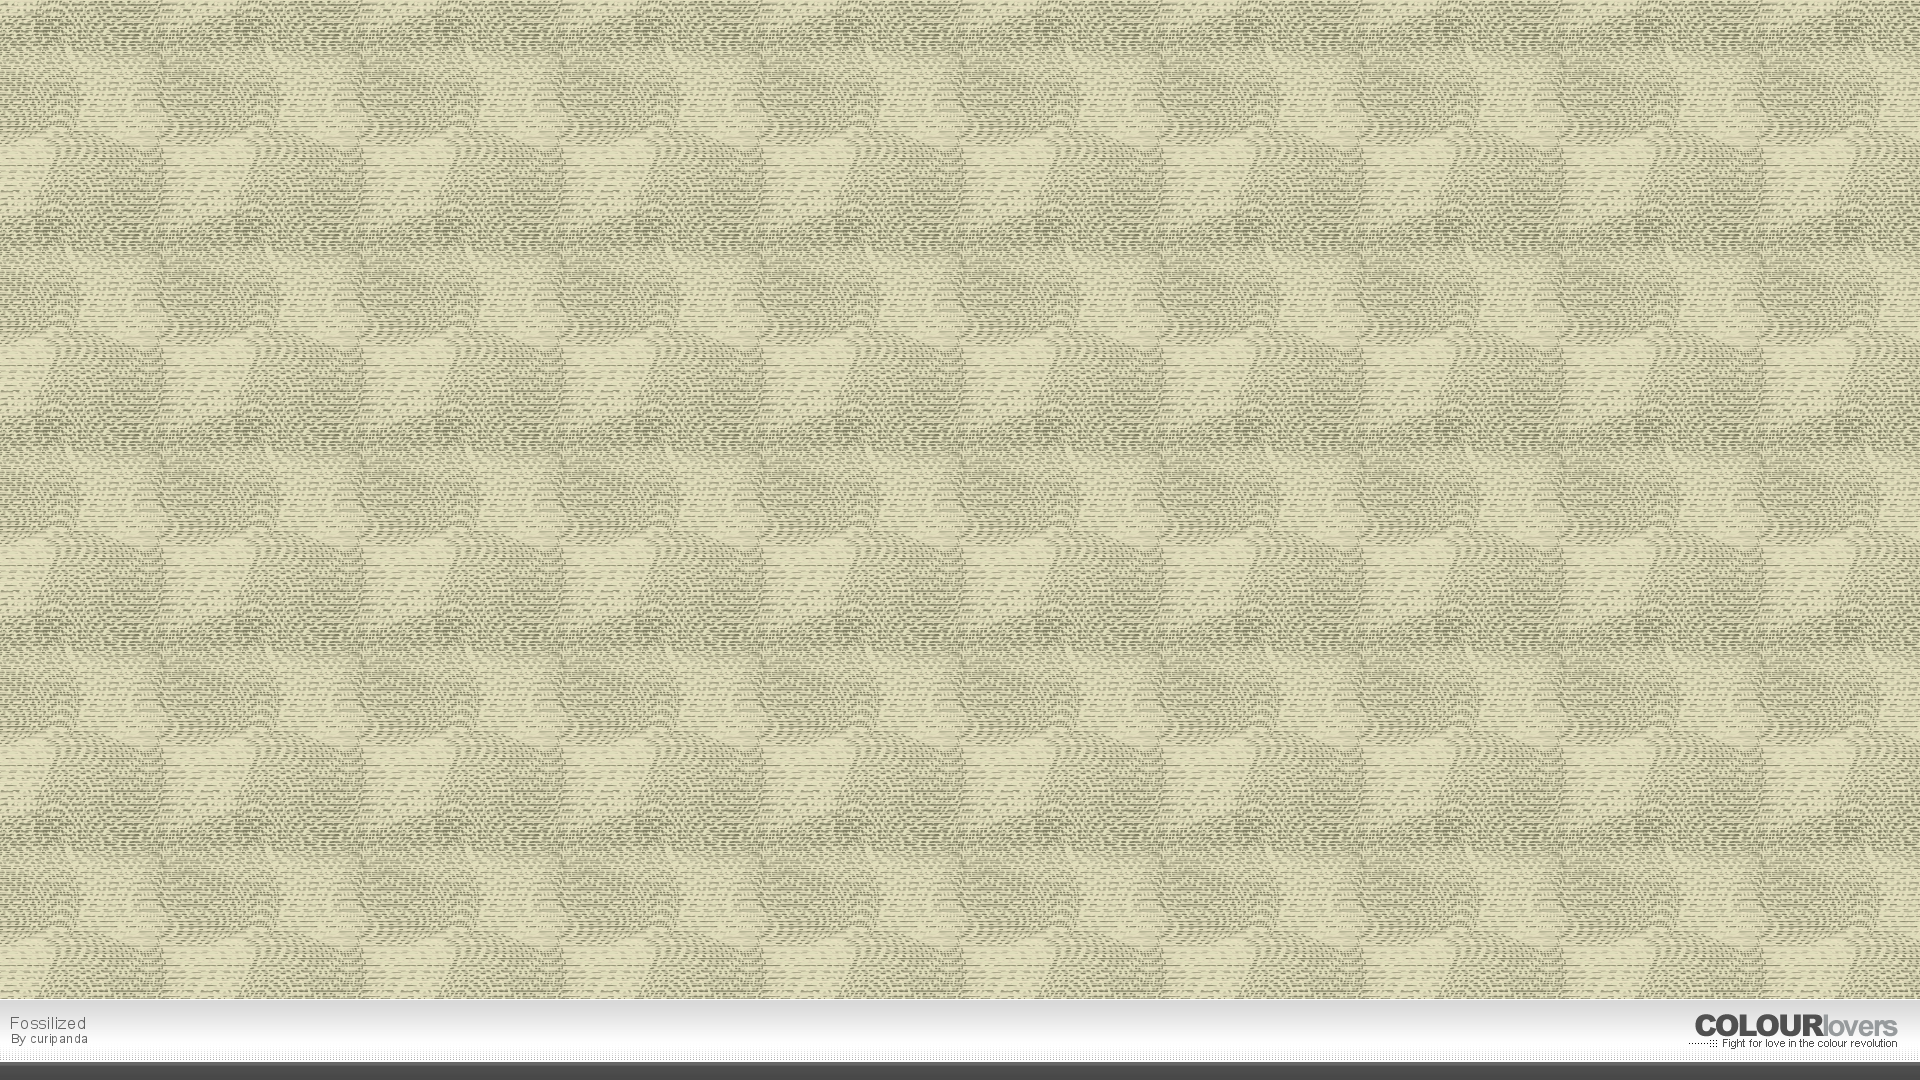
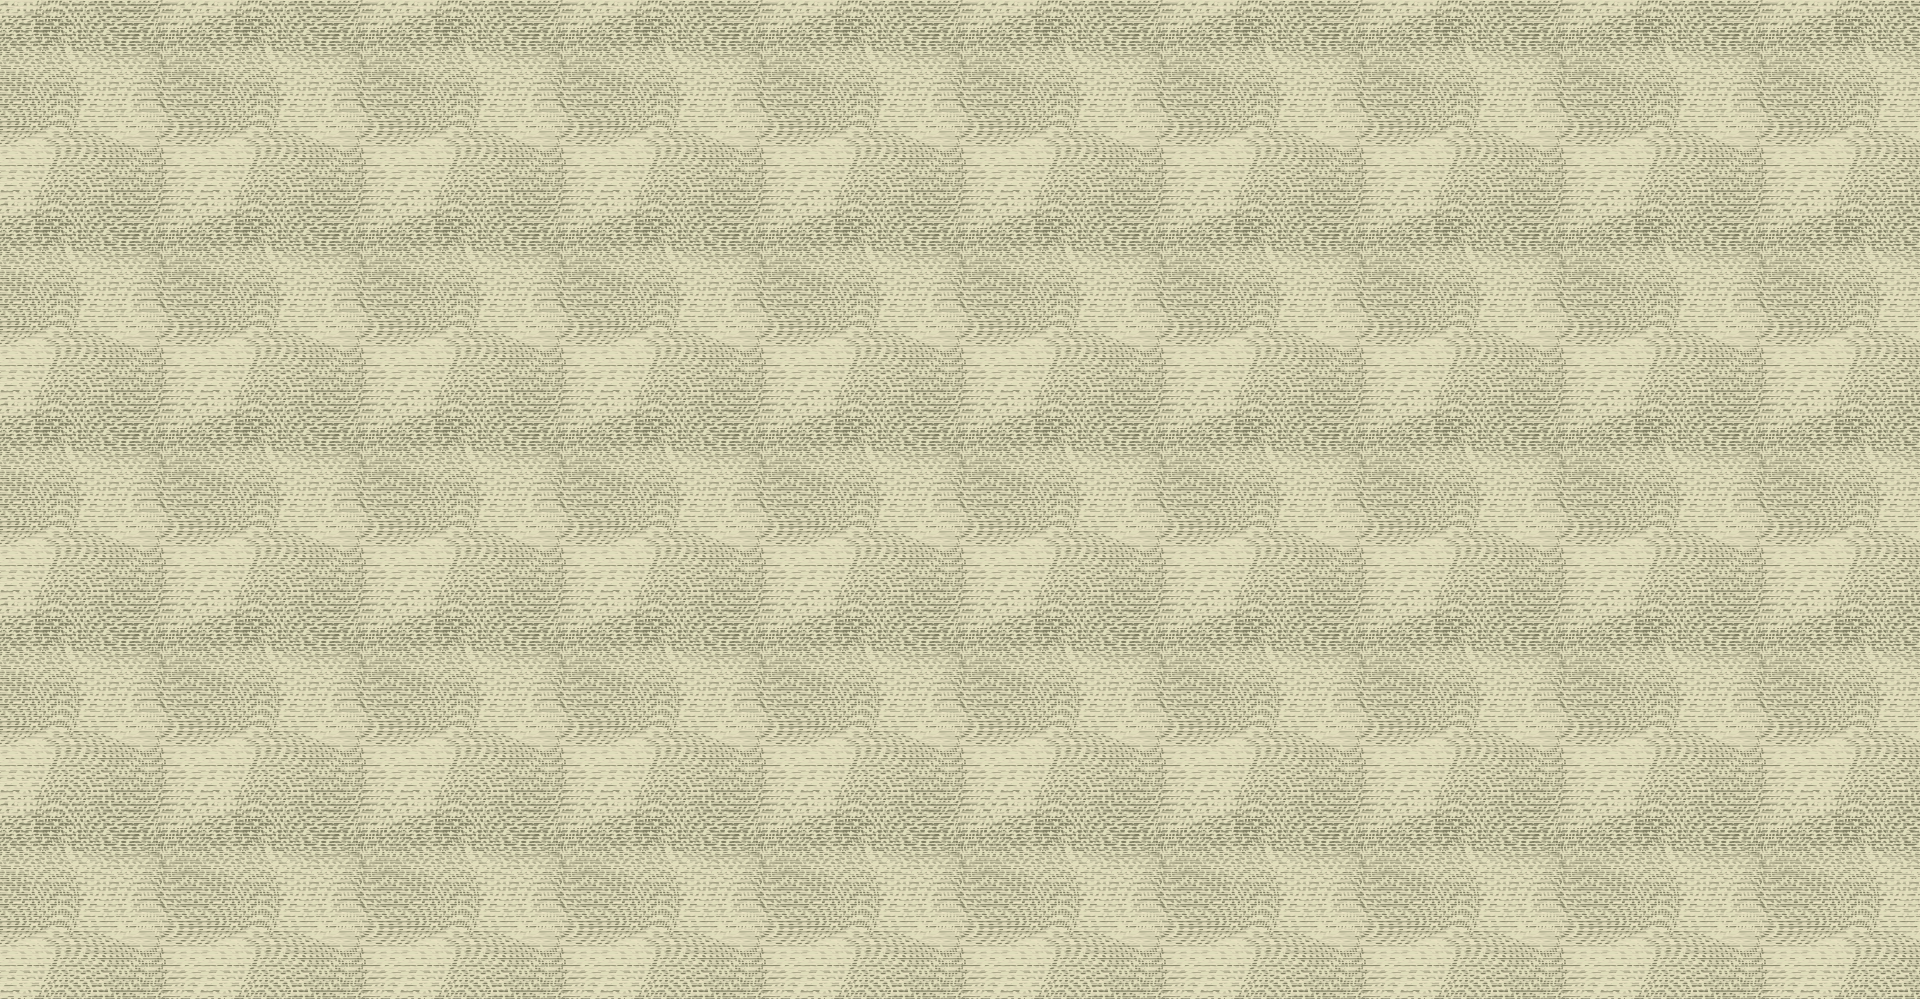
Version 2.1
The REAL P3: Style Tile version.  Ignore V2.

diff --git a/style-tile.html b/style-tile.html
@@ -35,7 +35,19 @@
 
 			<article class="body-text">
 				<div>
-					<p>Lorem ipsum dolor sit amet, consectetur adipisicing elit. Ad, maiores, hic, <a href="#" class="st-links">Links</a> dolor laboriosam rerum numquam accusantium minima architecto inventore quibusdam <a href="#" class="st-links">Links </a> harum illum labore quidem itaque iusto. Lorem ipsum dolor sit amet, consectetur adipisicing elit. Soluta, nostrum, ex modi quibusdam aliquid quam numquam aut sed iusto nisi nulla rerum assumenda quidem necessitatibus magni quia excepturi cum fugit!</p>
+					<h3>How do you want you and your work to be perceived?</h3>
+
+					<p>First and foremost, I am a prose writer. I have always been most comfortable creating with words. I have very little experience with visual communication, but I am confident that I can become at least competent with such compositions. I have been told, as a Technical Communication major, that a working knowledge of visual communication design combined with good writing skills is very welcome in many sectors.</p>
+
+					<h3>What visual elements will work? What will not work?</h3>
+
+					<p>Please refer to my collage for my favorite visual elements that are likely to find their way into my work. My favorite themes include science fiction and, to a lesser degree, fantasy. I am also a bit of an Anglophile; therefore I am drawn to Victorian gardens and everything associated with high tea.
+						Since I prefer organic (if imaginary) elements, anything geometric would not fit in with my style. I know what you're thinking! Yes, spaceships are absolutely organic elements, in my book. This lies at the heart of why I am such a fan of Joss Whedon's short-lived "Firefly" series. The ship, Serenity, was just as much a living character as any of the humans which occupied her interior.</p>
+
+					<h3>What kind of content will you have: e.g. code samples, logos, essays, etc.</h3>
+
+					<p>I could show some examples of work that I have done here at EWU, but to be honest, a Technical Communication major's work is precise and practical, but not very entertaining. I have two essays that I wrote for Intercultural Communications class that may be satisfactory. I may also include an original short story or excerpt.
+					<a href="#" class="st-links">Links </a> </p>
 					<em>'Slabo' | 27px | Black</em>
 				</div>
 			

diff --git a/css/styles.css b/css/styles.css
@@ -4,7 +4,8 @@
 body {
 	font-family: 'Slabo 27px', serif;
 	/*background: #E5C49A;*/
-	background: url("../img/COLOURlovers.com-Fossilized.png")
+	background: url("../img/COLOURlovers.com-Fossilized.png") no-repeat center;
+	background-size: cover;
 }
 
 header {
